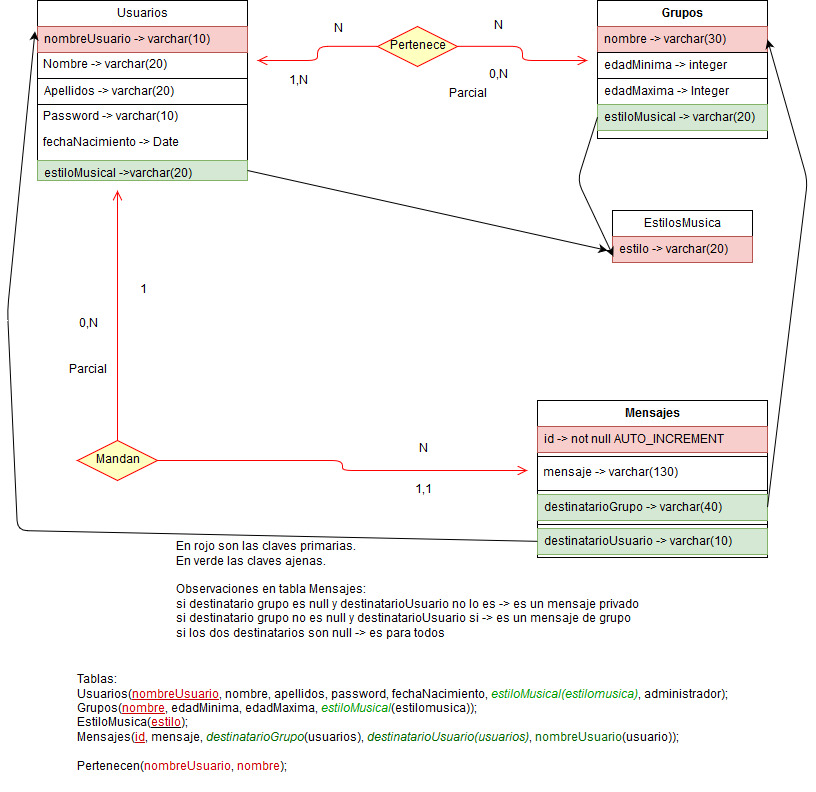
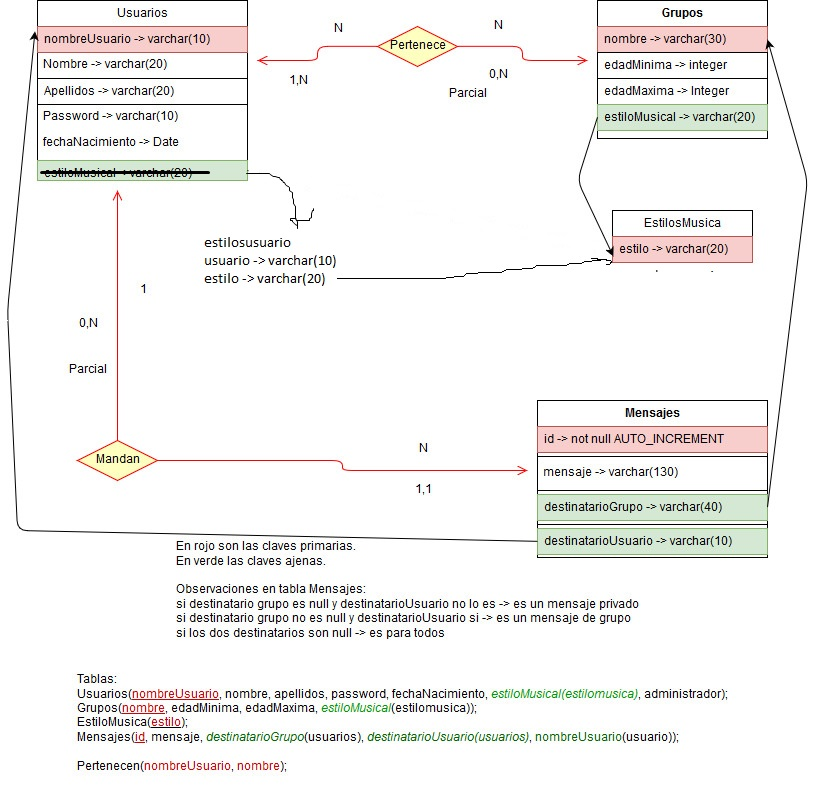
Base de datos acabada y empezando pagina mandarMensaje.php

diff --git a/src/mandarMensaje.php b/src/mandarMensaje.php
@@ -31,66 +31,20 @@
          <a class="brand-logo"><i class="material-icons">chat</i>Tuita</a>
           <a href="#" data-activates="mobile-demo" class="button-collapse"><i class="material-icons">menu</i></a>
           <ul class="right hide-on-med-and-down">
-            <li><a href="index.php">Pagina Principal</a></li>
-            <li><a href="cerrarSesion.php">Cerrar Sesion</a></li>
+                <li><a href="miPerfil.php">Volver al perfil</a></li>
+                <li><a href="cerrarSesion.php">Cerrar Sesion</a></li>
           </ul>
           <ul class="side-nav" id="mobile-demo">
-            <li><a href="index.php">Pagina Principal</a></li>
-            <li><a href="cerrarSesion.php">Cerrar Sesion</a></li>
+              <li><a href="miPerfil.php">Volver al perfil</a></li>
+              <li><a href="cerrarSesion.php">Cerrar Sesion</a></li>
           </ul>
         </div>
-		  <div class="col s12">
-			 <ul class="row tabs teal">
-				<li class="tab col s4"><a class="white-text" href="#todos">Todos</a></li>
-				<li class="tab col s4"><a class="white-text" href="#grupos">Grupos</a></li>
-				<li class="tab col s4"><a class="white-text" href="#privados">Privados</a></li>
-			  </ul>
-		  </div>
       </nav>
 	  <!-- FIN Barra de navegacion -->
-	  <main>
-        <!-- Inicio efecto parallax donde estaran los tuits -->
-        <!-- PROBAR UN PARALLAX CONTAINER POR CADA TAB PANEL-->
-          <!-- Contenido -->
-			<div id="todos" class="col s12">
-				  <div class="row">
-					  <div class="col s4">
-  						<div class="card blue-grey darken-1">
-  						  <div class="card-content white-text">
-    							<span class="card-title">Todos</span>
-    							<p>Todos texto</p>
-  						  </div>
-  						</div>
-					  </div>
-				  </div>
-			</div>
-          <div id="grupos" class="col s12">
-              <div class="row">
-                  <div class="col s4">
-                    <div class="card blue-grey darken-1">
-                      <div class="card-content white-text">
-                        <span class="card-title">Grupo</span>
-                        <p>Grupo texto</p>
-                      </div>
-                    </div>
-                  </div>
-              </div>
-          </div>
-          <div id="privados" class="col s12">
-              <div class="row">
-                  <div class="col s4">
-                    <div class="card blue-grey darken-1">
-                      <div class="card-content white-text">
-                        <span class="card-title">Privado</span>
-                        <p>Privado text</p>
-                      </div>
-                    </div>
-                  </div>
-              </div>
-          </div>
-          <!-- Fin Contenido -->
-        <!-- FIN efecto parallax donde estaran los tuits -->
-      </main>
+      <main>
+          <form class="col s12" method="post" action="<?php echo htmlspecialchars($_SERVER["PHP_SELF"])?>" onsubmit="">
+          </form>
+    </main>
       <!-- Footer de la pagina -->
       <footer class="page-footer teal"><!-- Color -->
         <div class="container">

diff --git a/php/modelo.php b/php/modelo.php
@@ -41,25 +41,25 @@ function desconectarBBDD($conexion){
 function buscarUsuario($usuario){
 	/*
 	 * 	mysql_fetch_row
-		This function will return a row where the values will come in the order 
-		as they are defined in the SQL query, and the keys will span from 0 to one 
+		This function will return a row where the values will come in the order
+		as they are defined in the SQL query, and the keys will span from 0 to one
 		less than the number of columns selected.
-		
+
 		mysql_fetch_assoc
-		This function will return a row as an associative array where the column 
+		This function will return a row as an associative array where the column
 		names will be the keys storing corresponding value.
 
 		mysql_fetch_array
-		This function will actually return an array with both the contents of 
-		mysql_fetch_rowand mysql_fetch_assoc merged into one. It will both have 
-		numeric and string keys which will let you access your data in whatever 
+		This function will actually return an array with both the contents of
+		mysql_fetch_rowand mysql_fetch_assoc merged into one. It will both have
+		numeric and string keys which will let you access your data in whatever
 		way you'd find easiest.
 	 * */
     $con = conectarBBDD();
     $encontrado = false;
 
     if($con != NULL){
-    	$result = $con->query("SELECT nombreusuario from usuarios where nombreusuario <> 'admin'");
+    	$result = $con->query("SELECT nombreusuario from usuarios");
     	if($result->num_rows > 0){
     		while($row = $result->fetch_assoc()){
           		$encontrado .= ($row["nombreusuario"] == $usuario);
@@ -75,9 +75,9 @@ function autenticarUsuario($usuario, $pass){
 
 	$con = conectarBBDD();
 	$encontrado = false;
-	
+
 	if($con != NULL){
-		$result = $con->query("SELECT nombreusuario, pass from usuarios where nombreusuario <> 'admin'");
+		$result = $con->query("SELECT nombreusuario, pass from usuarios");
 		if($result->num_rows > 0){
 			while($row = $result->fetch_assoc()){
 				$encontrado .= ($row["nombreusuario"] == $usuario && $row["pass"] == $pass);
@@ -115,13 +115,26 @@ function insertarUsuario($nombreUsuario, $nombre, $apellidos, $pass, $fechaNacim
 
 //FIN INSERT
 
-//SESIONES DE USUARIO
+//FUNCIONES PARA MANDAR MENSAJES
 
-function cerrarSesionUsuario(){
-    //session_unset();
-    
-	session_destroy();
+function mandarMensajeATodosUsuarios($mensaje, $destinatarioGrupo, $destinatarioUsuario, $emisor){
+
+    $con = conectarBBDD();
+    if($con != NULL){
+        $insert = "INSERT INTO mensajes (mensaje,destinatarioGrupo, destinatariousuario,emisor)
+        VALUES ('$mensaje','$destinatarioGrupo','$destinatarioUsuario','$emisor')";
+
+        if($con->query($insert) === TRUE){
+            return true;
+        }
+        else{
+            return false;
+        }
+    }
+    else{
+        return false;
+    }
+    desconectarBBDD($con);
 }
-
-//FIN SESIONES DE USUARIO
+//FIN DE FUNCIONES PARA MANDAR MENSAJES
 ?>

diff --git a/src/index.php b/src/index.php
@@ -30,7 +30,7 @@
                 session_start();
                 if(!empty($_SESSION["usuario"])){
                     if($_SESSION["usuario"] != null){
-                    	echo "<li><a href='miPerfil.html'>Hola, ".$_SESSION["usuario"]."</a></li>";
+                    	echo "<li><a href='miPerfil.php'>Hola, ".$_SESSION["usuario"]."</a></li>";
                     	echo "<li><a href='cerrarSesion.php'>Cerrar Sesion</a></li>";
                     }
                     else{
@@ -48,7 +48,7 @@
              <?php
 	             if(!empty($_SESSION['usuario'])){
 	                  if($_SESSION['usuario'] != null){
-	                  		echo "<li><a href='miPerfil.html'>Hola, ".$_SESSION["usuario"]."</a></li>";
+	                  		echo "<li><a href='miPerfil.php'>Hola, ".$_SESSION["usuario"]."</a></li>";
 	                  		echo "<li><a href='cerrarSesion.php'>Cerrar Sesion</a></li>";
 	                 }
 	                 else{

diff --git a/src/registro.php b/src/registro.php
@@ -101,16 +101,6 @@
 
           <div class = "row">
           <div class="col s4">
-              <label>Gusto Musical*</label>
-               <select class="browser-default">
-                 <option value="" disabled selected>Selecciona tu estilo preferido</option>
-                 <option value="1">Rock</option>
-                 <option value="2">Dance</option>
-                 <option value="3">Rap</option>
-                 <option value="4">Musica clasica</option>
-               </select>
-          </div>
-          <div class="col s4">
             <label for="id_fecha">Fecha de nacimiento *</label>
             <input id="id_fecha" type="date" name="Fecha" onchange="comprobarFecha()">
             <p id="error_fecha" class="red-text"></p>

diff --git a/php/controlador.php b/php/controlador.php
@@ -33,6 +33,10 @@ function insertar($usuario, $nombre, $apellidos, $pass, $fecha){
 
 //FIN INSERT
 
-//SESIONES DE USUARIO
-//FIN SESIONES DE USUARIO
+//FUNCIONES PARA MANDAR MENSAJES
+
+function mandarMensajeATodos($mensaje, $destinatarioGrupo, $destinatarioUsuario, $emisor){
+    return mandarMensajeATodos($mensaje, $destinatarioGrupo, $destinatarioUsuario, $emisor);
+}
+//FIN DE FUNCIONES PARA MANDAR MENSAJES
 ?>
